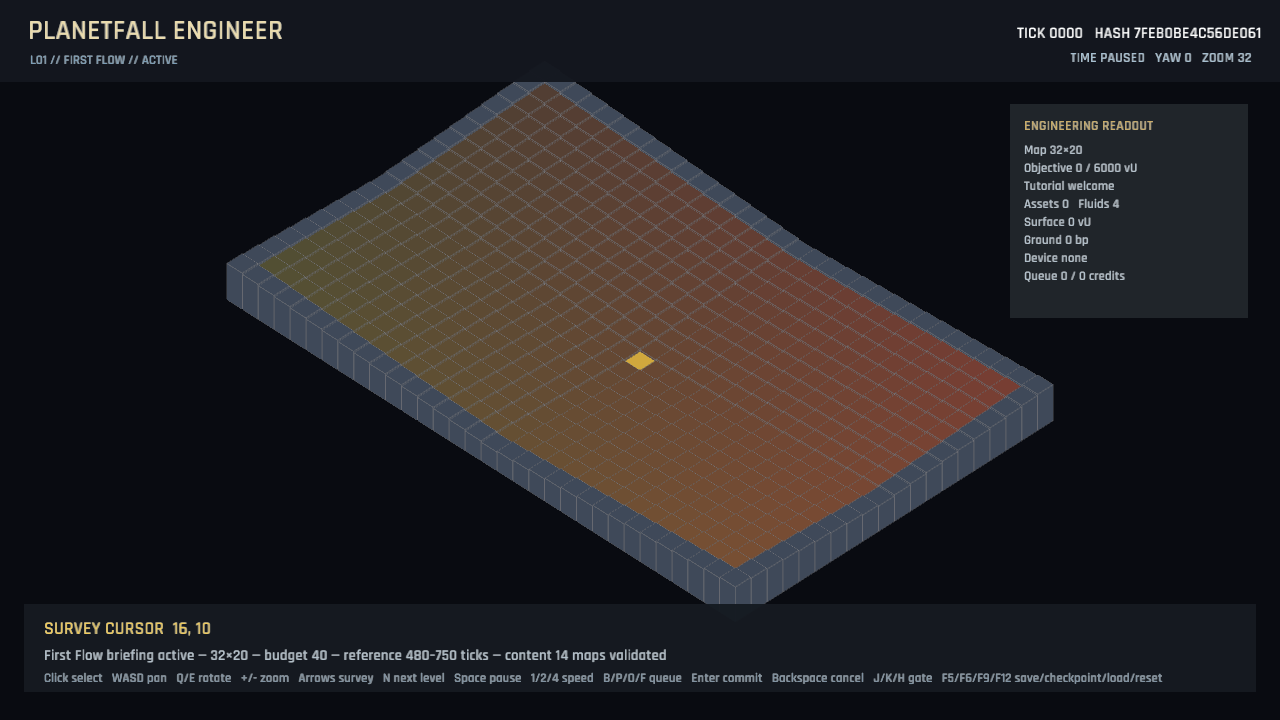
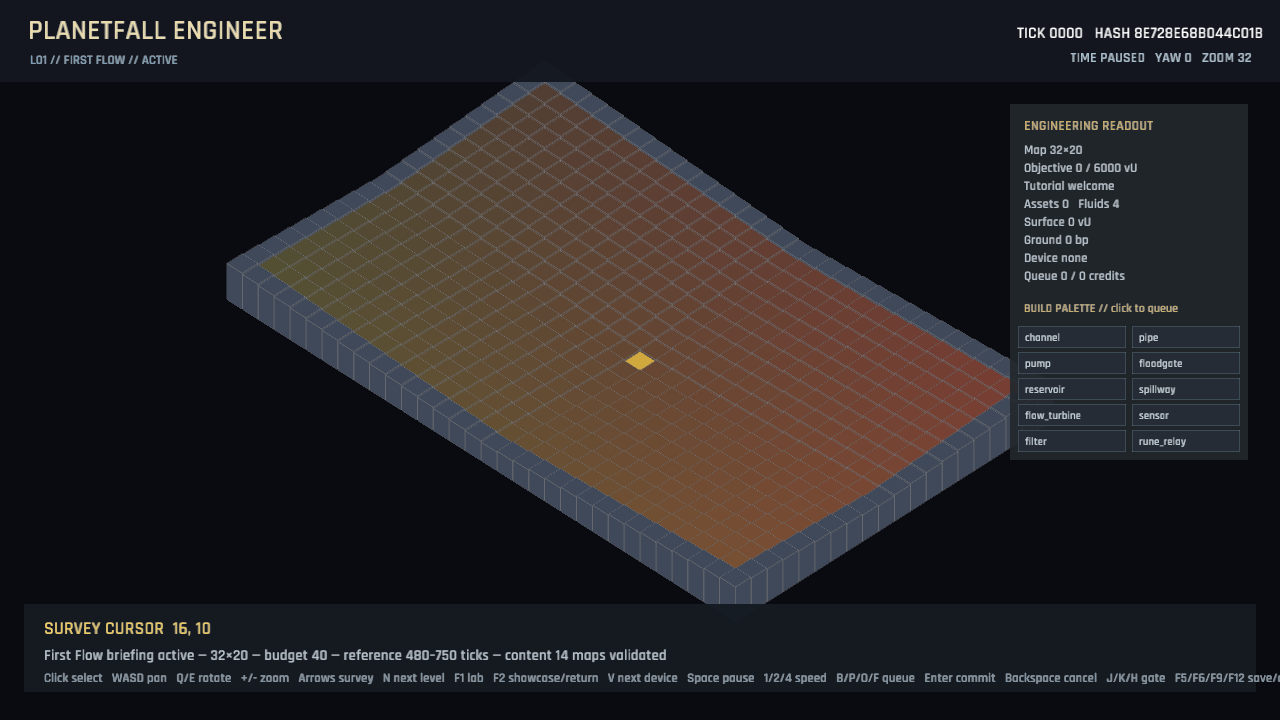
The engineer may choose every instrument from the visible build deck (mouse build palette)
The device systems exposed keyboard shortcuts but no player-facing build palette, leaving most placeables inaccessible at the required UI sizes. Add a ten-device palette with scaled mouse hit regions that routes through the existing tutorial admission, budget, bounds, protected-cell, overlap, and queue validation paths; refresh all three gameplay captures to prove the palette remains visible beside the 3D map.

All 41 project tests, clippy with warnings denied, publish.ps1, and visual inspection of the 1280x720, 1024x768, and 800x600 captures pass.

Changed region(s): [[0.7812, 0.3972, 1.0, 0.6417], [0.3438, 0.9167, 1.0, 0.9472], [0.875, 0.0306, 1.0, 0.0611]]

diff --git a/src/ui.rs b/src/ui.rs
@@ -21,7 +21,7 @@ pub fn draw_hud(ctx: UiContext<'_>) {
     draw_ui_text_ex(&format!("SURVEY CURSOR  {}, {}", ctx.session.selected.x, ctx.session.selected.y), 44.0, 634.0, TextStyle::new(18.0, Color::new(0.95, 0.8, 0.35, 1.0)).params());
     draw_ui_text_ex(ctx.notice, 44.0, 660.0, TextStyle::new(15.0, Color::new(0.7, 0.76, 0.8, 1.0)).params());
     draw_ui_text_ex("Click select   WASD pan   Q/E rotate   +/- zoom   Arrows survey   N next level   F1 lab   F2 showcase/return   V next device   Space pause   1/2/4 speed   B/P/O/F queue   Enter commit   Backspace cancel   J/K/H gate   F5/F6/F9/F12 save/checkpoint/load/reset", 44.0, 682.0, TextStyle::new(13.0, Color::new(0.5, 0.58, 0.64, 1.0)).params());
-    draw_rectangle(1010.0, 104.0, 238.0, 214.0, Color::new(0.04, 0.06, 0.09, 0.9));
+    draw_rectangle(1010.0, 104.0, 238.0, 356.0, Color::new(0.04, 0.06, 0.09, 0.9));
     draw_ui_text_ex("ENGINEERING READOUT", 1024.0, 130.0, TextStyle::new(14.0, Color::new(0.8, 0.68, 0.4, 1.0)).params());
     let selected = &ctx.session.simulation.cells[ctx.session.simulation.index(ctx.session.selected).unwrap()];
     let device_readout = ctx.session.simulation.devices.devices.iter().find(|device| device.anchor == ctx.session.selected).map(|device| format!("Device {} {}% {}", device.device.name(), device.setting_bp / 100, if device.active { "ACTIVE" } else { "IDLE" })).unwrap_or_else(|| "Device none".into());
@@ -36,6 +36,16 @@ pub fn draw_hud(ctx: UiContext<'_>) {
     draw_ui_text_ex(&format!("Ground {} bp", selected.ground_contamination_bp), 1024.0, 244.0, style.params());
     draw_ui_text_ex(&device_readout, 1024.0, 262.0, style.params());
     draw_ui_text_ex(&format!("Queue {} / {} credits", ctx.session.simulation.devices.queued.len(), ctx.session.simulation.devices.reserved_budget), 1024.0, 280.0, style.params());
+    draw_ui_text_ex("BUILD PALETTE // click to queue", 1024.0, 312.0, TextStyle::new(12.0, Color::new(0.8, 0.68, 0.4, 1.0)).params());
+    for (index, device) in crate::devices::DeviceId::ALL.into_iter().enumerate() {
+        let column = index % 2;
+        let row = index / 2;
+        let x = 1018.0 + column as f32 * 114.0;
+        let y = 326.0 + row as f32 * 26.0;
+        draw_rectangle(x, y, 108.0, 22.0, Color::new(0.10, 0.13, 0.17, 0.95));
+        draw_rectangle_lines(x, y, 108.0, 22.0, 1.0, Color::new(0.28, 0.38, 0.44, 0.9));
+        draw_ui_text_ex(device.name(), x + 7.0, y + 15.0, TextStyle::new(11.0, Color::new(0.76, 0.82, 0.86, 1.0)).params());
+    }
     if matches!(ctx.session.mission.phase, MissionPhase::Success | MissionPhase::Failure | MissionPhase::Debrief) { draw_terminal_panel(ctx.session); }
 }
 

diff --git a/src/game.rs b/src/game.rs
@@ -68,7 +68,7 @@ impl Game {
 
     pub fn update(&mut self, dt: f32) {
         if self.camera.update(dt, self.session.simulation.width as usize, self.session.simulation.height as usize) { let _ = self.session.mission.admit(CommandKind::Camera); }
-        if is_mouse_button_pressed(MouseButton::Left) { self.select_from_pointer(); }
+        if is_mouse_button_pressed(MouseButton::Left) && !self.handle_palette_click() { self.select_from_pointer(); }
         if is_key_pressed(KeyCode::Space) { self.set_time(match self.session.time_control { TimeControl::Paused => TimeControl::OneX, TimeControl::OneX => TimeControl::Paused, _ => TimeControl::Paused }); }
         if is_key_pressed(KeyCode::Key1) { self.set_time(TimeControl::OneX); }
         if is_key_pressed(KeyCode::Key2) { self.set_time(TimeControl::TwoX); }
@@ -137,6 +137,20 @@ impl Game {
         }}
         for device in &self.session.simulation.devices.devices { let (width, height) = device.device.footprint(); let cell = &self.session.simulation.cells[self.session.simulation.index(device.anchor).unwrap()]; let base = cell.height_hu as f32 * 0.0005; if let Some(distance) = Aabb3::from_center_size(vec3(device.anchor.x as f32 + width as f32 * 0.5, base + 0.35, device.anchor.y as f32 + height as f32 * 0.5), vec3(width as f32 * 0.72, 0.7, height as f32 * 0.72)).intersect(ray) { if closest.is_none_or(|(_, current)| distance < current) { closest = Some((device.anchor, distance)); } } }
         if let Some((selected, _)) = closest { self.session.selected = selected; let _ = self.session.mission.admit(CommandKind::Select); self.notice = format!("Survey target selected: {}, {}", selected.x, selected.y); }
+    }
+
+    fn handle_palette_click(&mut self) -> bool {
+        let (mouse_x, mouse_y) = mouse_position();
+        let scale_x = screen_width() / ui::LOGICAL_WIDTH;
+        let scale_y = screen_height() / ui::LOGICAL_HEIGHT;
+        let x = mouse_x / scale_x;
+        let y = mouse_y / scale_y;
+        if !(1018.0..1248.0).contains(&x) || !(326.0..456.0).contains(&y) { return false; }
+        let column = if x < 1132.0 { 0 } else { 1 };
+        let row = ((y - 326.0) / 26.0) as usize;
+        let index = row * 2 + column;
+        if let Some(device) = DeviceId::ALL.get(index).copied() { self.queue_device(device); }
+        true
     }
 
     fn queue_device(&mut self, device: DeviceId) {

diff --git a/README.md b/README.md
@@ -130,6 +130,9 @@ orthographic 3D world path; F1 returns to the campaign during free play.
 Capture scenes named `device_channel` through `device_rune_relay` seed the
 corresponding executable showcase; F2 opens the channel showcase in free play
 and V cycles the ten authored device maps without losing the campaign session.
+The HUD build palette lists all ten placeables and its mouse hit regions queue
+the same validated plans as the keyboard bindings, including visible rejection
+notices for tutorial, budget, bounds, protected-cell, and overlap failures.
 
 The initial orthographic zoom is derived from the authored map dimensions, so
 the 32×20 L01 world remains fully framed at the required viewport sizes.
